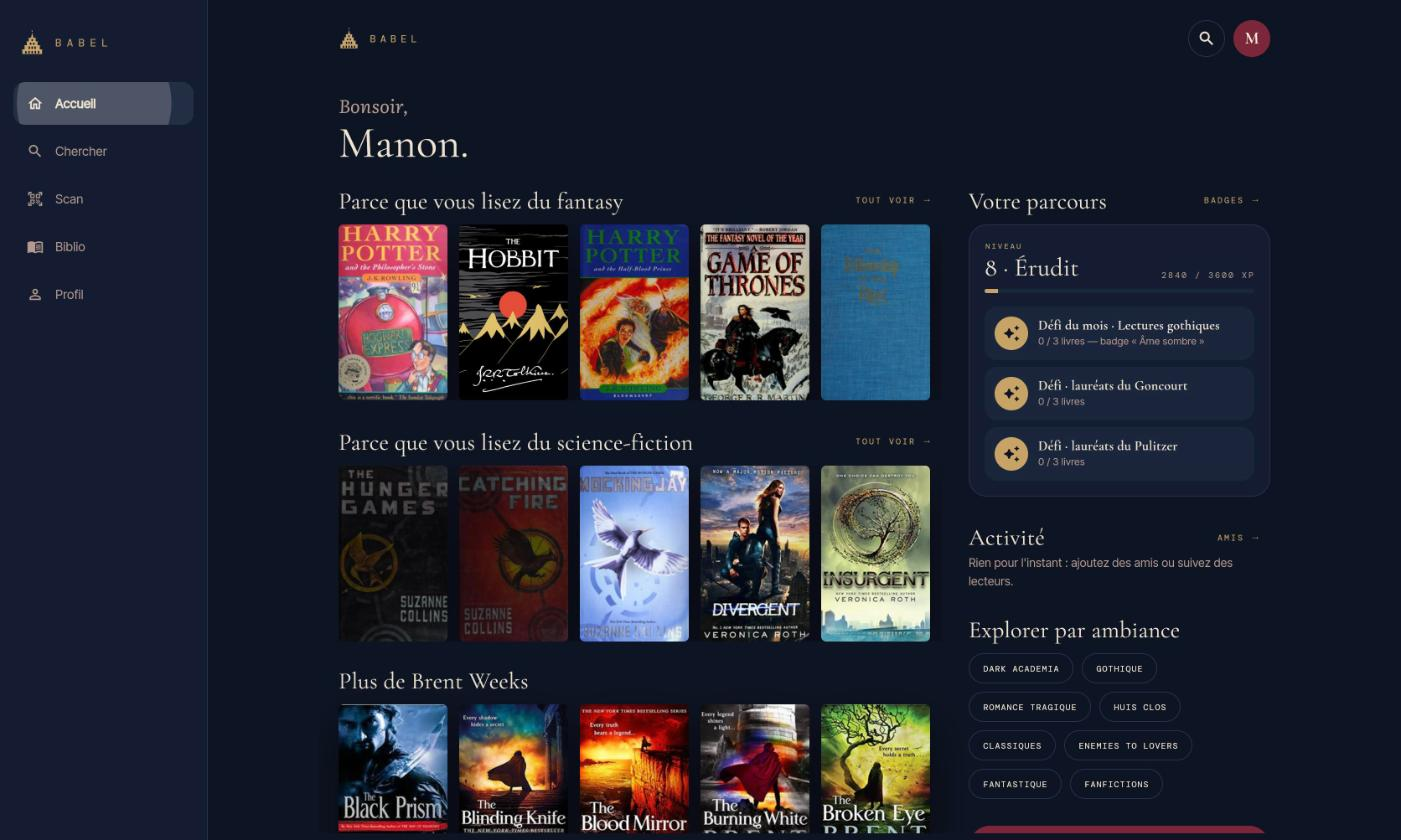
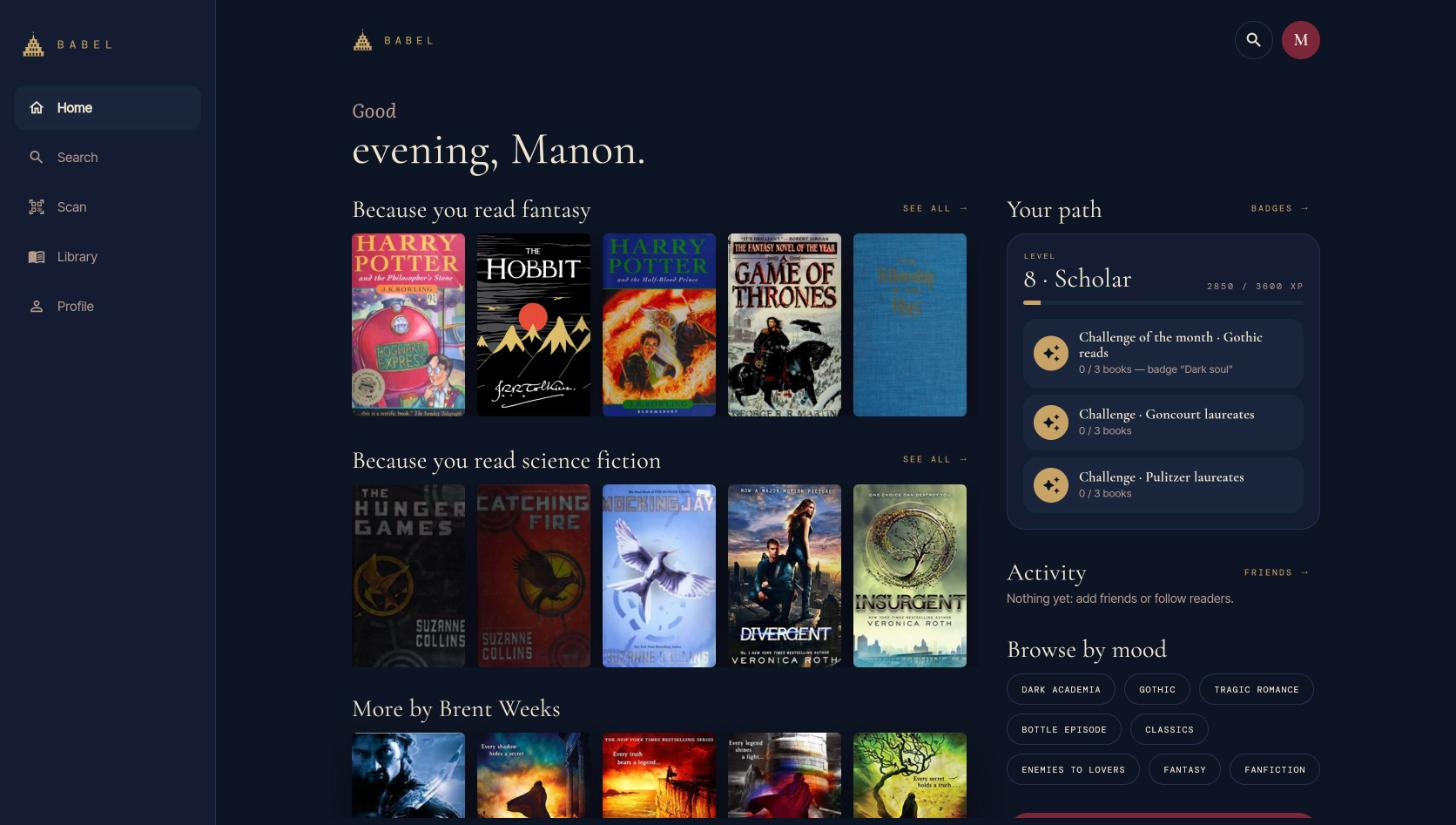
:globe_with_meridians: Show the Babel screenshots in English and give the stack tags more room

diff --git a/apps/web/lib/projects.ts b/apps/web/lib/projects.ts
@@ -52,23 +52,23 @@ export const projects: Project[] = [
         screens: [
             {
                 src: '/images/work/babel-home.jpg',
-                width: 1401,
-                height: 840,
-                alt: 'The home screen of Babel: recommendations by genre, reading level and challenges, and moods to explore.',
-                caption: 'Home: recommendations from what you read, your progress and moods to explore.',
+                width: 1456,
+                height: 825,
+                alt: 'The home screen of Babel in English: recommendations by genre, reading level and challenges, and moods to browse.',
+                caption: 'Home: recommendations from what you read, your progress and moods to browse.',
             },
             {
                 src: '/images/work/babel-library.jpg',
-                width: 1401,
-                height: 840,
-                alt: 'The library screen of Babel: a shelf of books with their format and reading status.',
+                width: 1456,
+                height: 825,
+                alt: 'The library screen of Babel in English: a shelf of books with their format and reading status.',
                 caption: 'The library: paper books and ebooks side by side, with their status (to read, reading, read).',
             },
             {
                 src: '/images/work/babel-profile.jpg',
-                width: 1401,
-                height: 840,
-                alt: 'The profile screen of Babel: reading level, challenges of the month and badges.',
+                width: 1456,
+                height: 825,
+                alt: 'The profile screen of Babel in English: reading level, challenges of the month and badges.',
                 caption: 'The profile: level, challenges and badges that follow your reading.',
             },
         ],

diff --git a/packages/ui/src/styles/04-layout/project.scss b/packages/ui/src/styles/04-layout/project.scss
@@ -124,7 +124,7 @@
     background: var(--surface-translucent);
 
     dt {
-      margin-bottom: 8px;
+      margin-bottom: 12px;
       font-size: var(--font-size-S);
       letter-spacing: 0.12em;
       text-transform: uppercase;
@@ -140,7 +140,8 @@
   &__m-tags {
     display: flex;
     flex-wrap: wrap;
-    gap: 8px;
+    gap: 10px;
+    margin-top: 12px;
   }
 
   &__a-tag {
